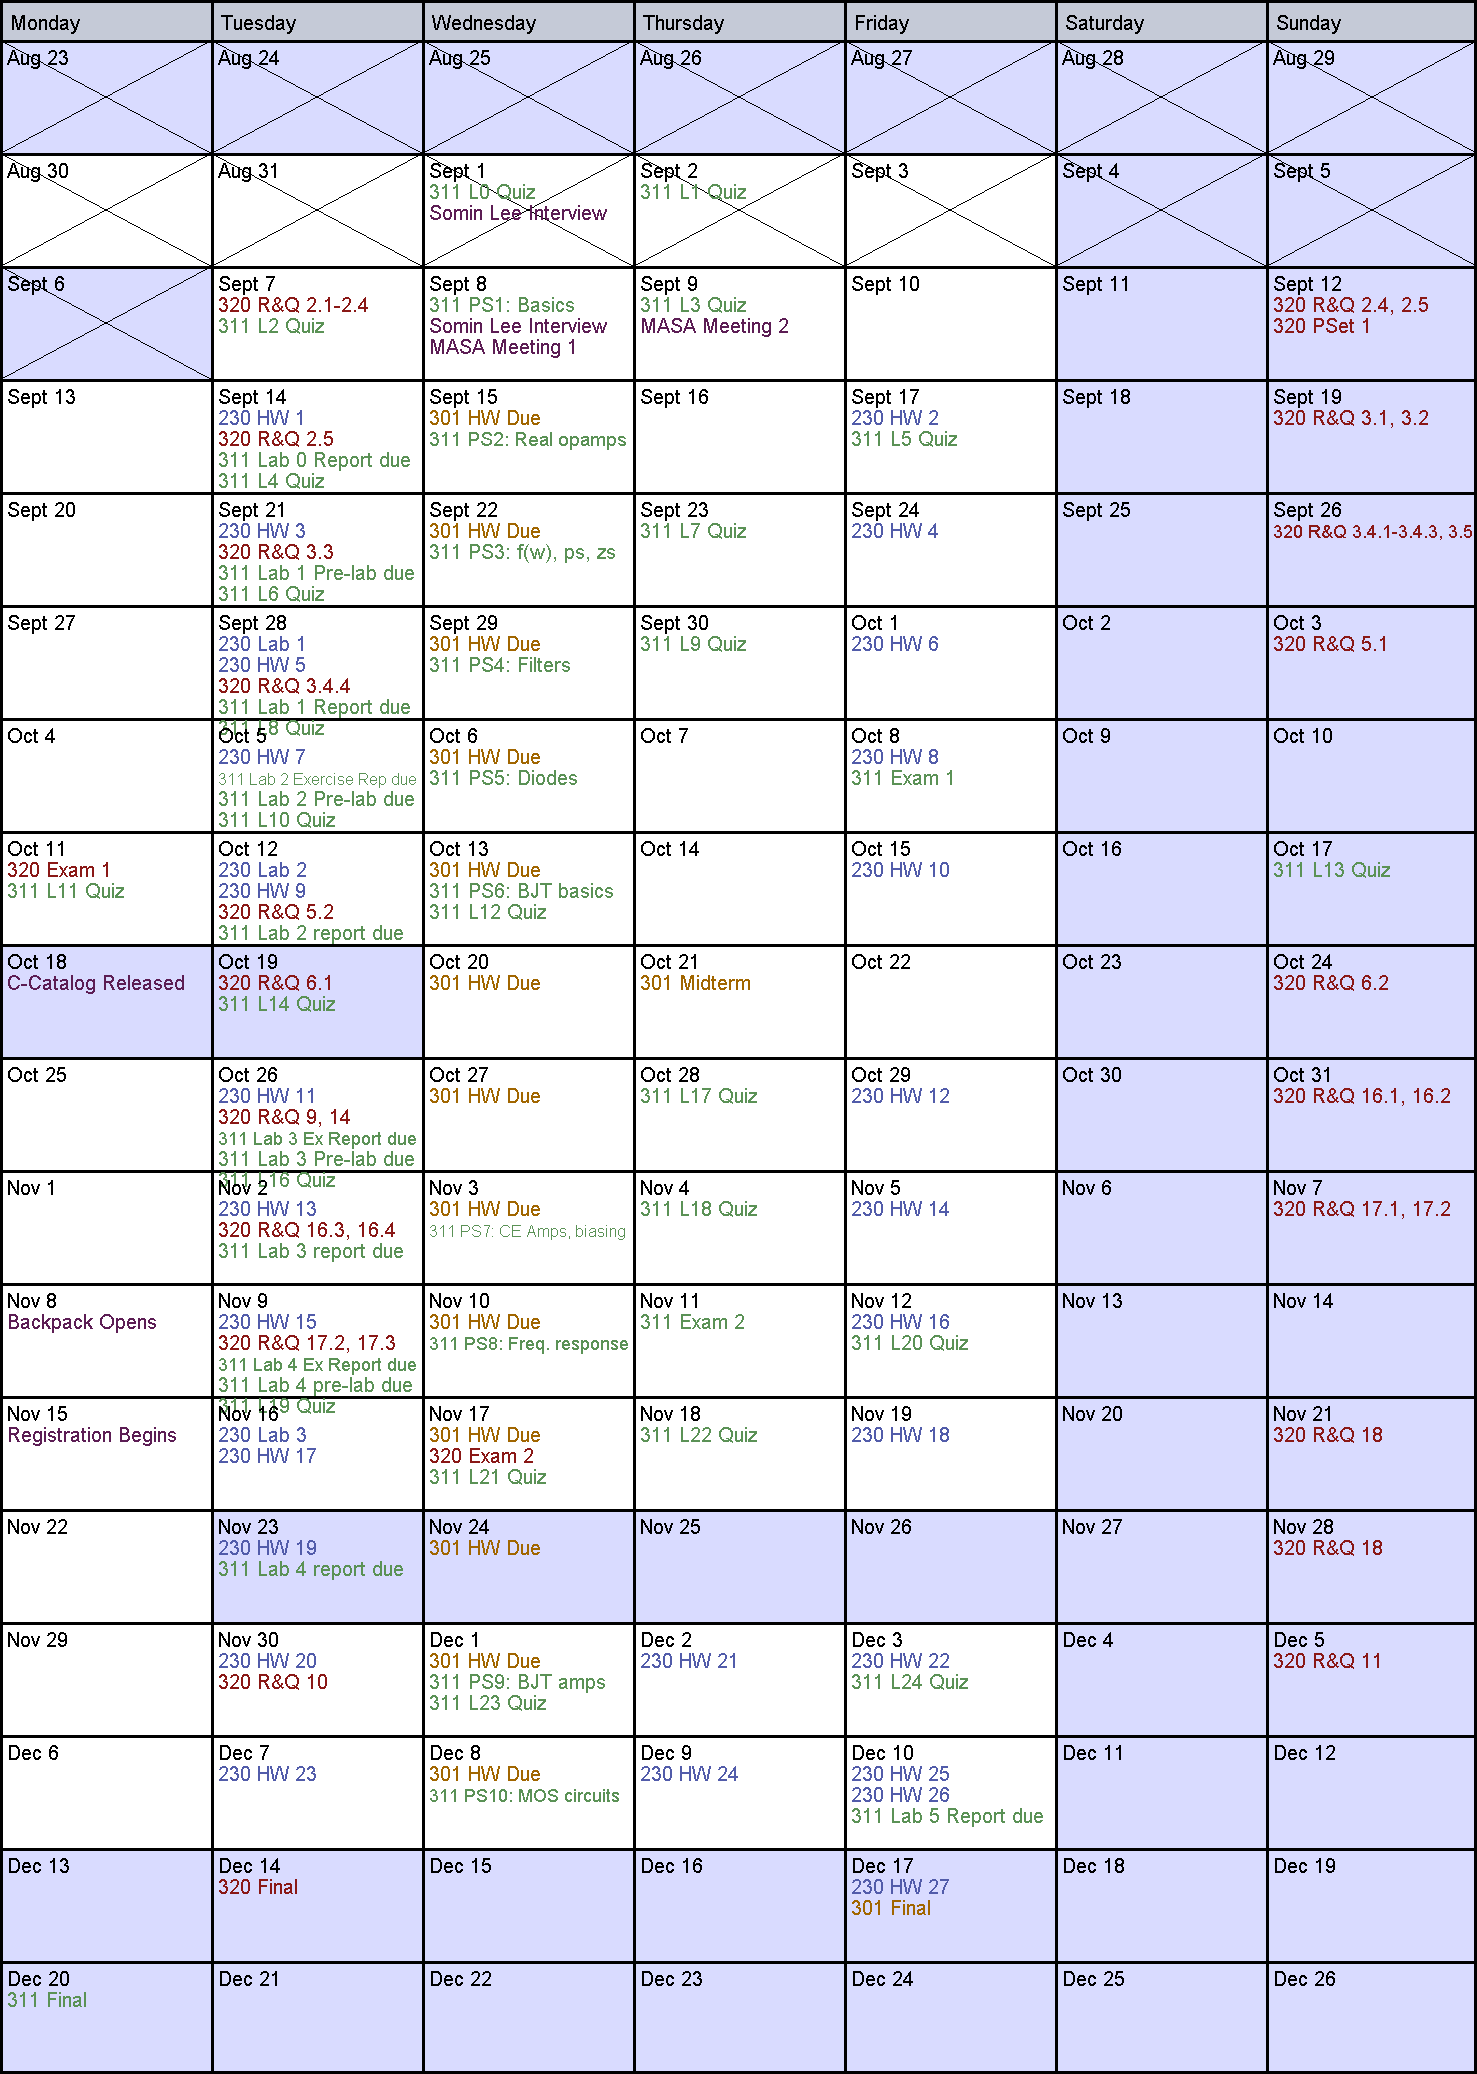
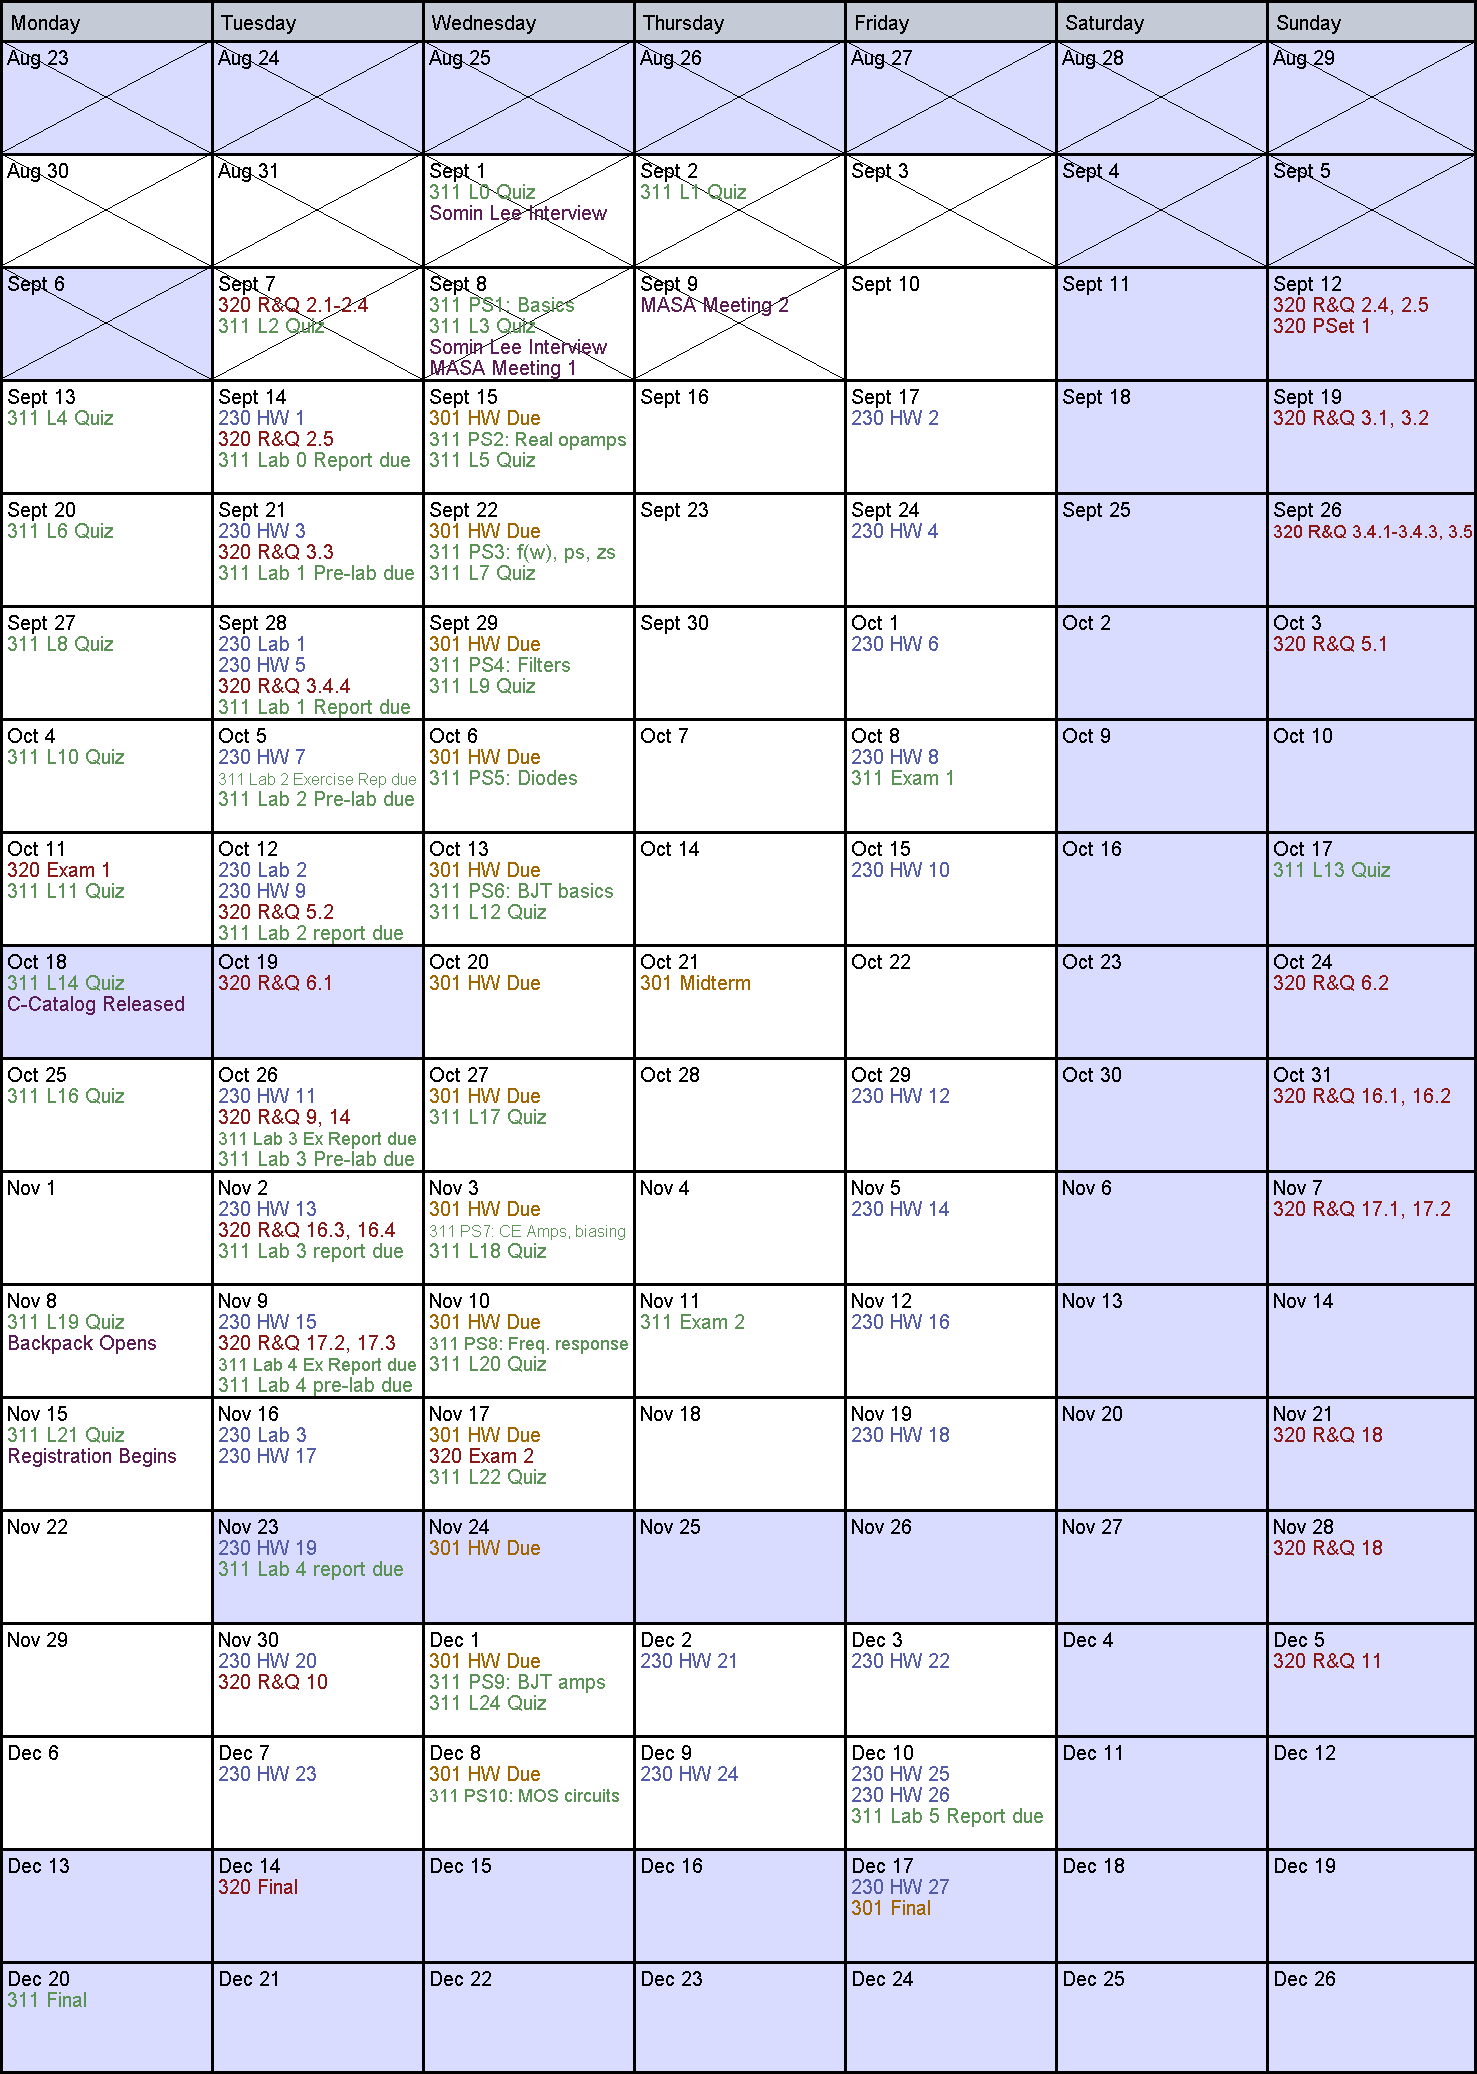
fixes

diff --git a/src/Calendar.java b/src/Calendar.java
@@ -133,27 +133,27 @@ public class Calendar extends Applet implements Runnable, KeyListener {
         addEvent("311 L0 Quiz", getDayofYear(1,9), 3);
         addEvent("311 L1 Quiz", getDayofYear(2,9), 3);
         addEvent("311 L2 Quiz", getDayofYear(7,9), 3);
-        addEvent("311 L3 Quiz", getDayofYear(9,9), 3);
-        addEvent("311 L4 Quiz", getDayofYear(14,9), 3);
-        addEvent("311 L5 Quiz", getDayofYear(17,9), 3);
-        addEvent("311 L6 Quiz", getDayofYear(21,9), 3);
-        addEvent("311 L7 Quiz", getDayofYear(23,9), 3);
-        addEvent("311 L8 Quiz", getDayofYear(28,9), 3);
-        addEvent("311 L9 Quiz", getDayofYear(30,9), 3);
-        addEvent("311 L10 Quiz", getDayofYear(5,10), 3);
+        addEvent("311 L3 Quiz", getDayofYear(8,9), 3);
+        addEvent("311 L4 Quiz", getDayofYear(13,9), 3);
+        addEvent("311 L5 Quiz", getDayofYear(15,9), 3);
+        addEvent("311 L6 Quiz", getDayofYear(20,9), 3);
+        addEvent("311 L7 Quiz", getDayofYear(22,9), 3);
+        addEvent("311 L8 Quiz", getDayofYear(27,9), 3);
+        addEvent("311 L9 Quiz", getDayofYear(29,9), 3);
+        addEvent("311 L10 Quiz", getDayofYear(4,10), 3);
         addEvent("311 L11 Quiz", getDayofYear(11,10), 3);
         addEvent("311 L12 Quiz", getDayofYear(13,10), 3);
         addEvent("311 L13 Quiz", getDayofYear(17,10), 3);
-        addEvent("311 L14 Quiz", getDayofYear(19,10), 3);
-        addEvent("311 L16 Quiz", getDayofYear(26,10), 3);
-        addEvent("311 L17 Quiz", getDayofYear(28,10), 3);
-        addEvent("311 L18 Quiz", getDayofYear(4,11), 3);
-        addEvent("311 L19 Quiz", getDayofYear(9,11), 3);
-        addEvent("311 L20 Quiz", getDayofYear(12,11), 3);
-        addEvent("311 L21 Quiz", getDayofYear(17,11), 3);
-        addEvent("311 L22 Quiz", getDayofYear(18,11), 3);
-        addEvent("311 L23 Quiz", getDayofYear(1,12), 3);
-        addEvent("311 L24 Quiz", getDayofYear(3,12), 3);
+        addEvent("311 L14 Quiz", getDayofYear(18,10), 3);
+        addEvent("311 L16 Quiz", getDayofYear(25,10), 3);
+        addEvent("311 L17 Quiz", getDayofYear(27,10), 3);
+        addEvent("311 L18 Quiz", getDayofYear(3,11), 3);
+        addEvent("311 L19 Quiz", getDayofYear(8,11), 3);
+        addEvent("311 L20 Quiz", getDayofYear(10,11), 3);
+        addEvent("311 L21 Quiz", getDayofYear(15,11), 3);
+        addEvent("311 L22 Quiz", getDayofYear(17,11), 3);
+        addEvent("311 L23 Quiz", getDayofYear(30,12), 3);
+        addEvent("311 L24 Quiz", getDayofYear(1,12), 3);
 
         addEvent("C-Catalog Released ", getDayofYear(18,10), 4);
         addEvent("Backpack Opens", getDayofYear(8,11), 4);
